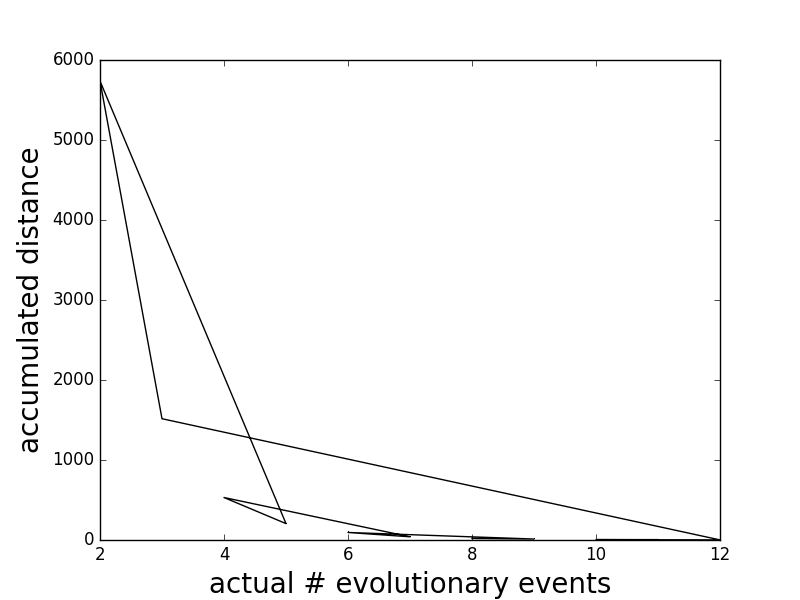
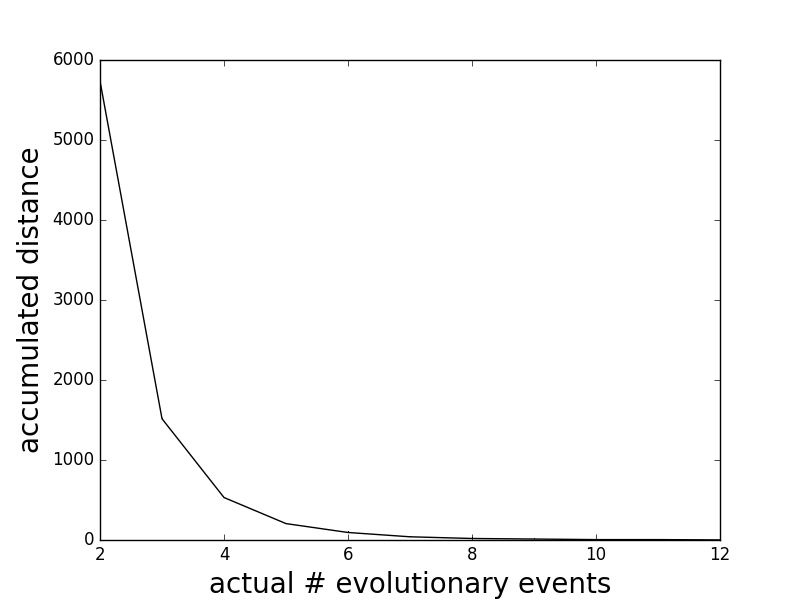
dsa

diff --git a/scripts/data_analysis.py b/scripts/data_analysis.py
@@ -59,10 +59,10 @@ class JsonStats:
         items = stats_str.split("\n")
         for item in items:
             pair = item.split(",")
-            if pair[0] in stats_item:
-                stats_item[pair[0]] += int(pair[1])
+            if int(pair[0]) in stats_item:
+                stats_item[int(pair[0])] += int(pair[1])
             else:
-                stats_item[pair[0]] = int(pair[1])
+                stats_item[int(pair[0])] = int(pair[1])
         X = [0] * len(stats_item)
         Y = [0] * len(stats_item)
         i=0
